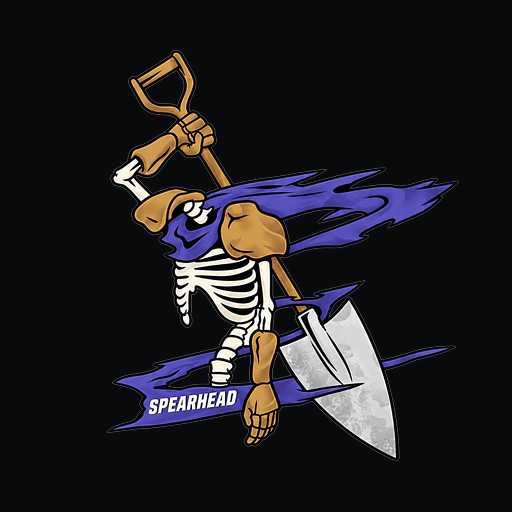
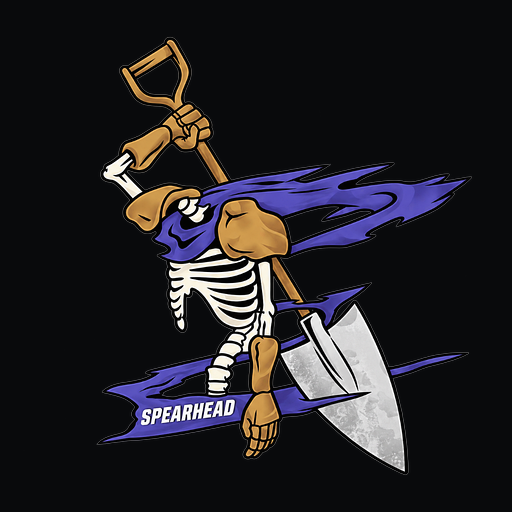
Upgrade opening animation size by 100% with full 950x852 emblem and tactical boot sequence

Changed region(s): [[0.1875, 0.0625, 0.9062, 0.9375]]

diff --git a/index.html b/index.html
@@ -884,7 +884,7 @@
       }
     }
 
-    /* FAST IN-APP LAUNCH SPLASH */
+    /* CINEMATIC TACTICAL APP OPENING ANIMATION */
     .app-splash {
       position: fixed;
       top: 0;
@@ -897,55 +897,102 @@
       flex-direction: column;
       align-items: center;
       justify-content: center;
-      transition: opacity 0.2s ease, visibility 0.2s ease;
+      transition: opacity 0.35s cubic-bezier(0.2, 0.8, 0.2, 1), transform 0.35s cubic-bezier(0.2, 0.8, 0.2, 1), visibility 0.35s ease;
       pointer-events: all;
+      overflow: hidden;
     }
     .app-splash.hidden {
       opacity: 0;
+      transform: scale(1.04);
       visibility: hidden;
       pointer-events: none;
     }
     .splash-logo-wrap {
-      width: 190px;
-      height: 190px;
+      width: min(310px, 78vw);
+      max-width: 310px;
       display: flex;
       align-items: center;
       justify-content: center;
+      animation: splashEmblemEntrance 0.65s cubic-bezier(0.16, 1, 0.3, 1) forwards;
     }
     .splash-logo-img {
       width: 100%;
-      height: 100%;
+      height: auto;
       object-fit: contain;
-      filter: drop-shadow(0 0 24px rgba(0, 0, 0, 0.9));
+      filter: drop-shadow(0 0 28px rgba(139, 92, 246, 0.45)) drop-shadow(0 8px 32px rgba(0, 0, 0, 0.9));
       image-rendering: -webkit-optimize-contrast;
+      image-rendering: crisp-edges;
     }
     .splash-title {
-      margin-top: 14px;
-      font-size: 0.95rem;
+      margin-top: 18px;
+      font-size: 1.05rem;
       font-weight: 900;
-      letter-spacing: 3px;
-      color: var(--accent);
+      letter-spacing: 4px;
+      color: var(--beige-light);
       text-transform: uppercase;
+      animation: splashFadeIn 0.5s ease 0.15s both;
+    }
+    .splash-progress-track {
+      width: min(240px, 65vw);
+      height: 4px;
+      background: rgba(255, 255, 255, 0.08);
+      border: 1px solid var(--border-accent);
+      margin-top: 14px;
+      overflow: hidden;
+      position: relative;
+      animation: splashFadeIn 0.5s ease 0.2s both;
+    }
+    .splash-progress-fill {
+      width: 0%;
+      height: 100%;
+      background: linear-gradient(90deg, #6366f1, #a855f7, #e2d7c5);
+      animation: splashProgressFill 0.65s cubic-bezier(0.16, 1, 0.3, 1) 0.1s forwards;
     }
     .splash-sub {
-      margin-top: 4px;
+      margin-top: 8px;
       font-size: 0.65rem;
       font-weight: 600;
-      letter-spacing: 1.5px;
+      letter-spacing: 2px;
       color: var(--beige-dim);
       text-transform: uppercase;
+      animation: splashFadeIn 0.5s ease 0.25s both;
+    }
+
+    @keyframes splashEmblemEntrance {
+      0% {
+        opacity: 0;
+        transform: scale(0.85) translateY(8px);
+      }
+      100% {
+        opacity: 1;
+        transform: scale(1) translateY(0);
+      }
+    }
+
+    @keyframes splashProgressFill {
+      0% { width: 0%; }
+      60% { width: 75%; }
+      100% { width: 100%; }
+    }
+
+    @keyframes splashFadeIn {
+      from { opacity: 0; transform: translateY(4px); }
+      to { opacity: 1; transform: translateY(0); }
     }
   </style>
 </head>
 <body class="view-auto">
 
-  <!-- INSTANT FAST APP LAUNCH SPLASH -->
+  <!-- CINEMATIC TACTICAL APP OPENING ANIMATION -->
   <div id="app-splash-screen" class="app-splash">
     <div class="splash-logo-wrap">
-      <img src="icons/icon-512.png" alt="Spearhead" class="splash-logo-img">
+      <img src="icons/spearhead_emblem.png" alt="Spearhead Emblem" class="splash-logo-img">
     </div>
     <div class="splash-title">SPEARHEAD</div>
-    <div class="splash-sub">SYSTEM READY</div>
+    <div class="splash-progress-track">
+      <div class="splash-progress-fill"></div>
+    </div>
+    <div class="splash-sub" id="splashStatusText">INITIALIZING SYSTEM...</div>
   </div>
 
   <div class="app-container">
@@ -1645,14 +1692,18 @@
 
   <!-- JAVASCRIPT LOGIC ENGINE -->
   <script>
-    // Snappy in-app splash dismiss
+    // Cinematic Tactical Opening Animation Controller
     window.addEventListener('DOMContentLoaded', () => {
       const splash = document.getElementById('app-splash-screen');
+      const statusText = document.getElementById('splashStatusText');
       if (splash) {
         setTimeout(() => {
+          if (statusText) statusText.innerText = "SYSTEM ONLINE // READY";
+        }, 550);
+        setTimeout(() => {
           splash.classList.add('hidden');
-          setTimeout(() => { try { splash.remove(); } catch(e){} }, 250);
-        }, 180);
+          setTimeout(() => { try { splash.remove(); } catch(e){} }, 400);
+        }, 850);
       }
     });
 

diff --git a/web/index.html b/web/index.html
@@ -884,7 +884,7 @@
       }
     }
 
-    /* FAST IN-APP LAUNCH SPLASH */
+    /* CINEMATIC TACTICAL APP OPENING ANIMATION */
     .app-splash {
       position: fixed;
       top: 0;
@@ -897,55 +897,102 @@
       flex-direction: column;
       align-items: center;
       justify-content: center;
-      transition: opacity 0.2s ease, visibility 0.2s ease;
+      transition: opacity 0.35s cubic-bezier(0.2, 0.8, 0.2, 1), transform 0.35s cubic-bezier(0.2, 0.8, 0.2, 1), visibility 0.35s ease;
       pointer-events: all;
+      overflow: hidden;
     }
     .app-splash.hidden {
       opacity: 0;
+      transform: scale(1.04);
       visibility: hidden;
       pointer-events: none;
     }
     .splash-logo-wrap {
-      width: 190px;
-      height: 190px;
+      width: min(310px, 78vw);
+      max-width: 310px;
       display: flex;
       align-items: center;
       justify-content: center;
+      animation: splashEmblemEntrance 0.65s cubic-bezier(0.16, 1, 0.3, 1) forwards;
     }
     .splash-logo-img {
       width: 100%;
-      height: 100%;
+      height: auto;
       object-fit: contain;
-      filter: drop-shadow(0 0 24px rgba(0, 0, 0, 0.9));
+      filter: drop-shadow(0 0 28px rgba(139, 92, 246, 0.45)) drop-shadow(0 8px 32px rgba(0, 0, 0, 0.9));
       image-rendering: -webkit-optimize-contrast;
+      image-rendering: crisp-edges;
     }
     .splash-title {
-      margin-top: 14px;
-      font-size: 0.95rem;
+      margin-top: 18px;
+      font-size: 1.05rem;
       font-weight: 900;
-      letter-spacing: 3px;
-      color: var(--accent);
+      letter-spacing: 4px;
+      color: var(--beige-light);
       text-transform: uppercase;
+      animation: splashFadeIn 0.5s ease 0.15s both;
+    }
+    .splash-progress-track {
+      width: min(240px, 65vw);
+      height: 4px;
+      background: rgba(255, 255, 255, 0.08);
+      border: 1px solid var(--border-accent);
+      margin-top: 14px;
+      overflow: hidden;
+      position: relative;
+      animation: splashFadeIn 0.5s ease 0.2s both;
+    }
+    .splash-progress-fill {
+      width: 0%;
+      height: 100%;
+      background: linear-gradient(90deg, #6366f1, #a855f7, #e2d7c5);
+      animation: splashProgressFill 0.65s cubic-bezier(0.16, 1, 0.3, 1) 0.1s forwards;
     }
     .splash-sub {
-      margin-top: 4px;
+      margin-top: 8px;
       font-size: 0.65rem;
       font-weight: 600;
-      letter-spacing: 1.5px;
+      letter-spacing: 2px;
       color: var(--beige-dim);
       text-transform: uppercase;
+      animation: splashFadeIn 0.5s ease 0.25s both;
+    }
+
+    @keyframes splashEmblemEntrance {
+      0% {
+        opacity: 0;
+        transform: scale(0.85) translateY(8px);
+      }
+      100% {
+        opacity: 1;
+        transform: scale(1) translateY(0);
+      }
+    }
+
+    @keyframes splashProgressFill {
+      0% { width: 0%; }
+      60% { width: 75%; }
+      100% { width: 100%; }
+    }
+
+    @keyframes splashFadeIn {
+      from { opacity: 0; transform: translateY(4px); }
+      to { opacity: 1; transform: translateY(0); }
     }
   </style>
 </head>
 <body class="view-auto">
 
-  <!-- INSTANT FAST APP LAUNCH SPLASH -->
+  <!-- CINEMATIC TACTICAL APP OPENING ANIMATION -->
   <div id="app-splash-screen" class="app-splash">
     <div class="splash-logo-wrap">
-      <img src="icons/icon-512.png" alt="Spearhead" class="splash-logo-img">
+      <img src="icons/spearhead_emblem.png" alt="Spearhead Emblem" class="splash-logo-img">
     </div>
     <div class="splash-title">SPEARHEAD</div>
-    <div class="splash-sub">SYSTEM READY</div>
+    <div class="splash-progress-track">
+      <div class="splash-progress-fill"></div>
+    </div>
+    <div class="splash-sub" id="splashStatusText">INITIALIZING SYSTEM...</div>
   </div>
 
   <div class="app-container">
@@ -1645,14 +1692,18 @@
 
   <!-- JAVASCRIPT LOGIC ENGINE -->
   <script>
-    // Snappy in-app splash dismiss
+    // Cinematic Tactical Opening Animation Controller
     window.addEventListener('DOMContentLoaded', () => {
       const splash = document.getElementById('app-splash-screen');
+      const statusText = document.getElementById('splashStatusText');
       if (splash) {
         setTimeout(() => {
+          if (statusText) statusText.innerText = "SYSTEM ONLINE // READY";
+        }, 550);
+        setTimeout(() => {
           splash.classList.add('hidden');
-          setTimeout(() => { try { splash.remove(); } catch(e){} }, 250);
-        }, 180);
+          setTimeout(() => { try { splash.remove(); } catch(e){} }, 400);
+        }, 850);
       }
     });
 

diff --git a/sw.js b/sw.js
@@ -1,10 +1,11 @@
 // Spearhead Service Worker
-const CACHE_NAME = 'spearhead-v5.0.3';
+const CACHE_NAME = 'spearhead-v5.0.4';
 const ASSETS = [
   './',
   './index.html',
   './manifest.json',
   './favicon.ico',
+  './icons/spearhead_emblem.png',
   './icons/icon.svg',
   './icons/icon-192.png',
   './icons/icon-512.png',

diff --git a/web/sw.js b/web/sw.js
@@ -1,10 +1,11 @@
 // Spearhead Service Worker
-const CACHE_NAME = 'spearhead-v5.0.3';
+const CACHE_NAME = 'spearhead-v5.0.4';
 const ASSETS = [
   './',
   './index.html',
   './manifest.json',
   './favicon.ico',
+  './icons/spearhead_emblem.png',
   './icons/icon.svg',
   './icons/icon-192.png',
   './icons/icon-512.png',
